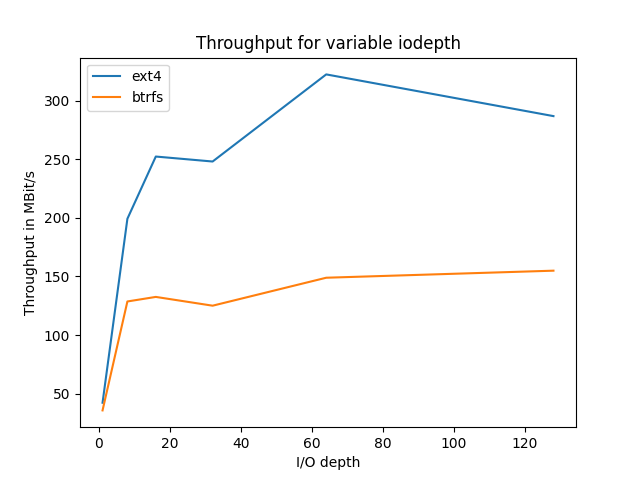
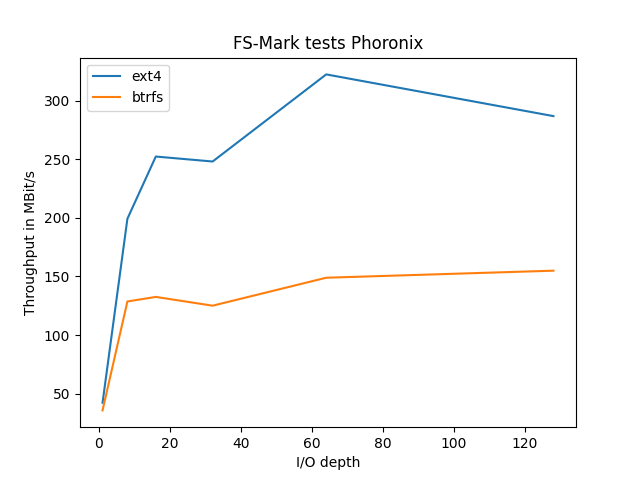
Fix graphic headline

Changed region(s): [[0.3125, 0.0625, 0.7188, 0.125]]

diff --git a/task3/taskB/plot_vardepth.py b/task3/taskB/plot_vardepth.py
@@ -71,7 +71,7 @@ def generate_plot(file):
         txt = label[0]
         plt.plot(x_only, y_only, label=txt)
 
-    plt.title('Throughput for variable iodepth')
+    plt.title('FS-Mark tests Phoronix')
     plt.xlabel('I/O depth')
     plt.ylabel('Throughput in MBit/s')
     plt.legend()
